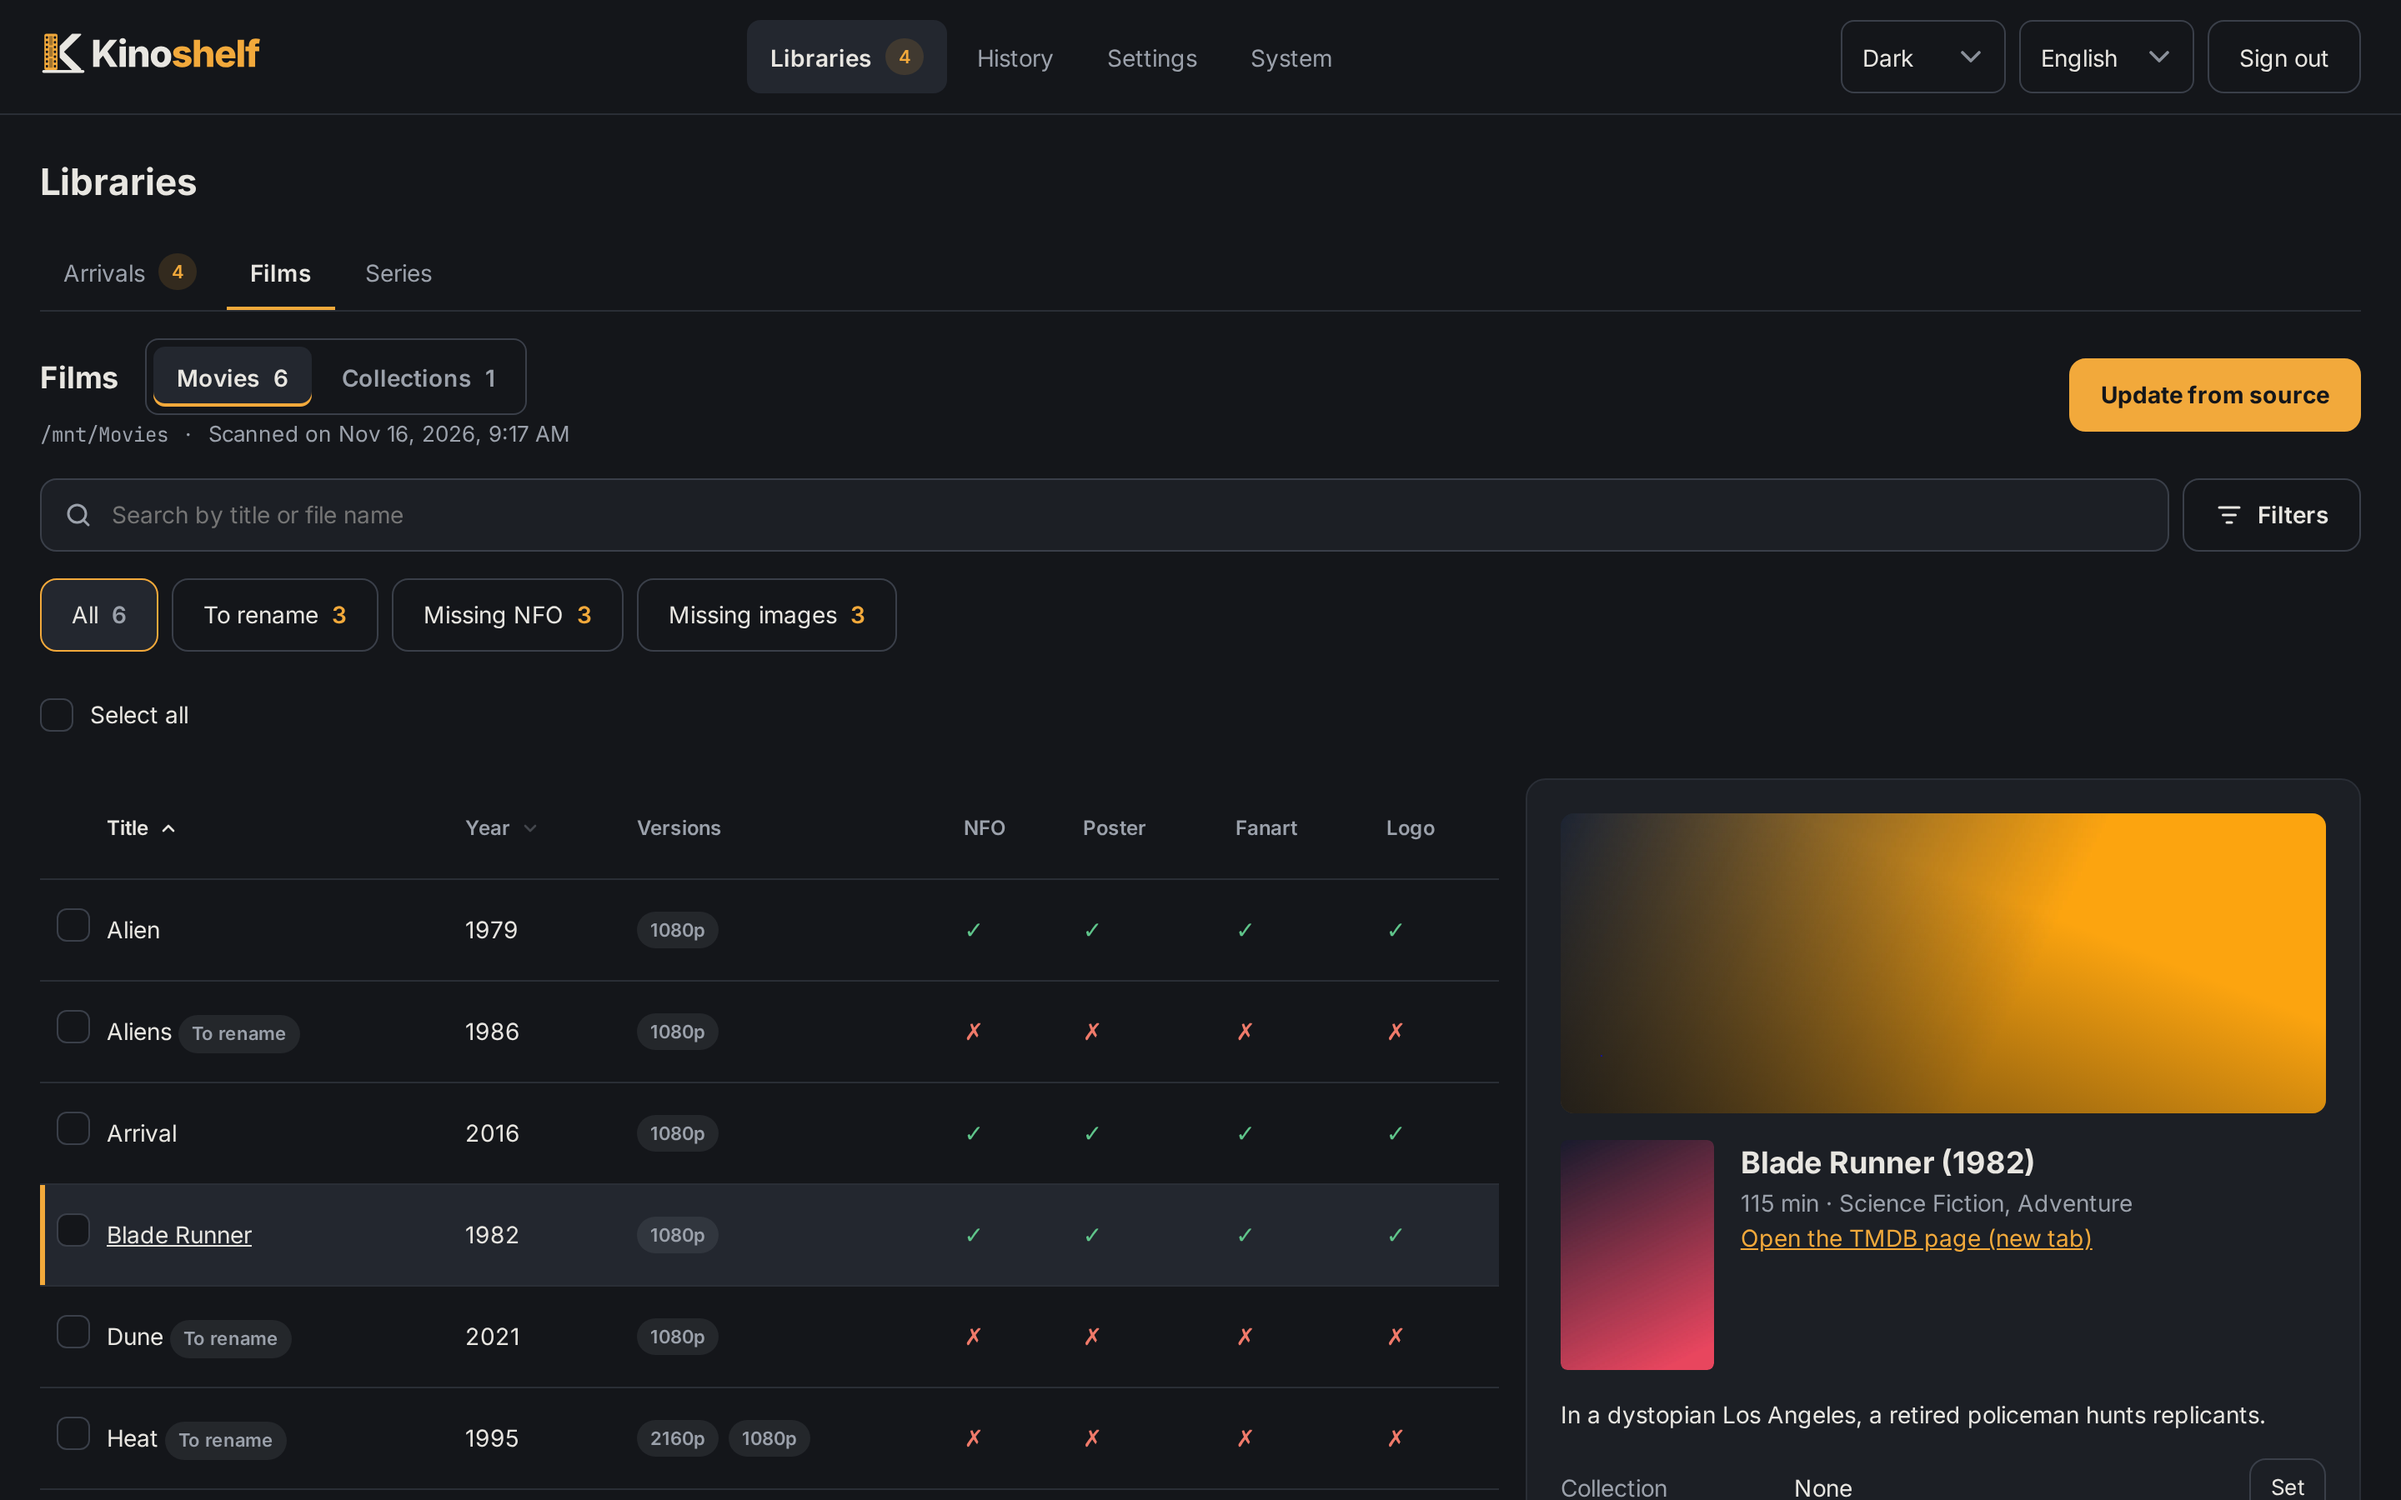
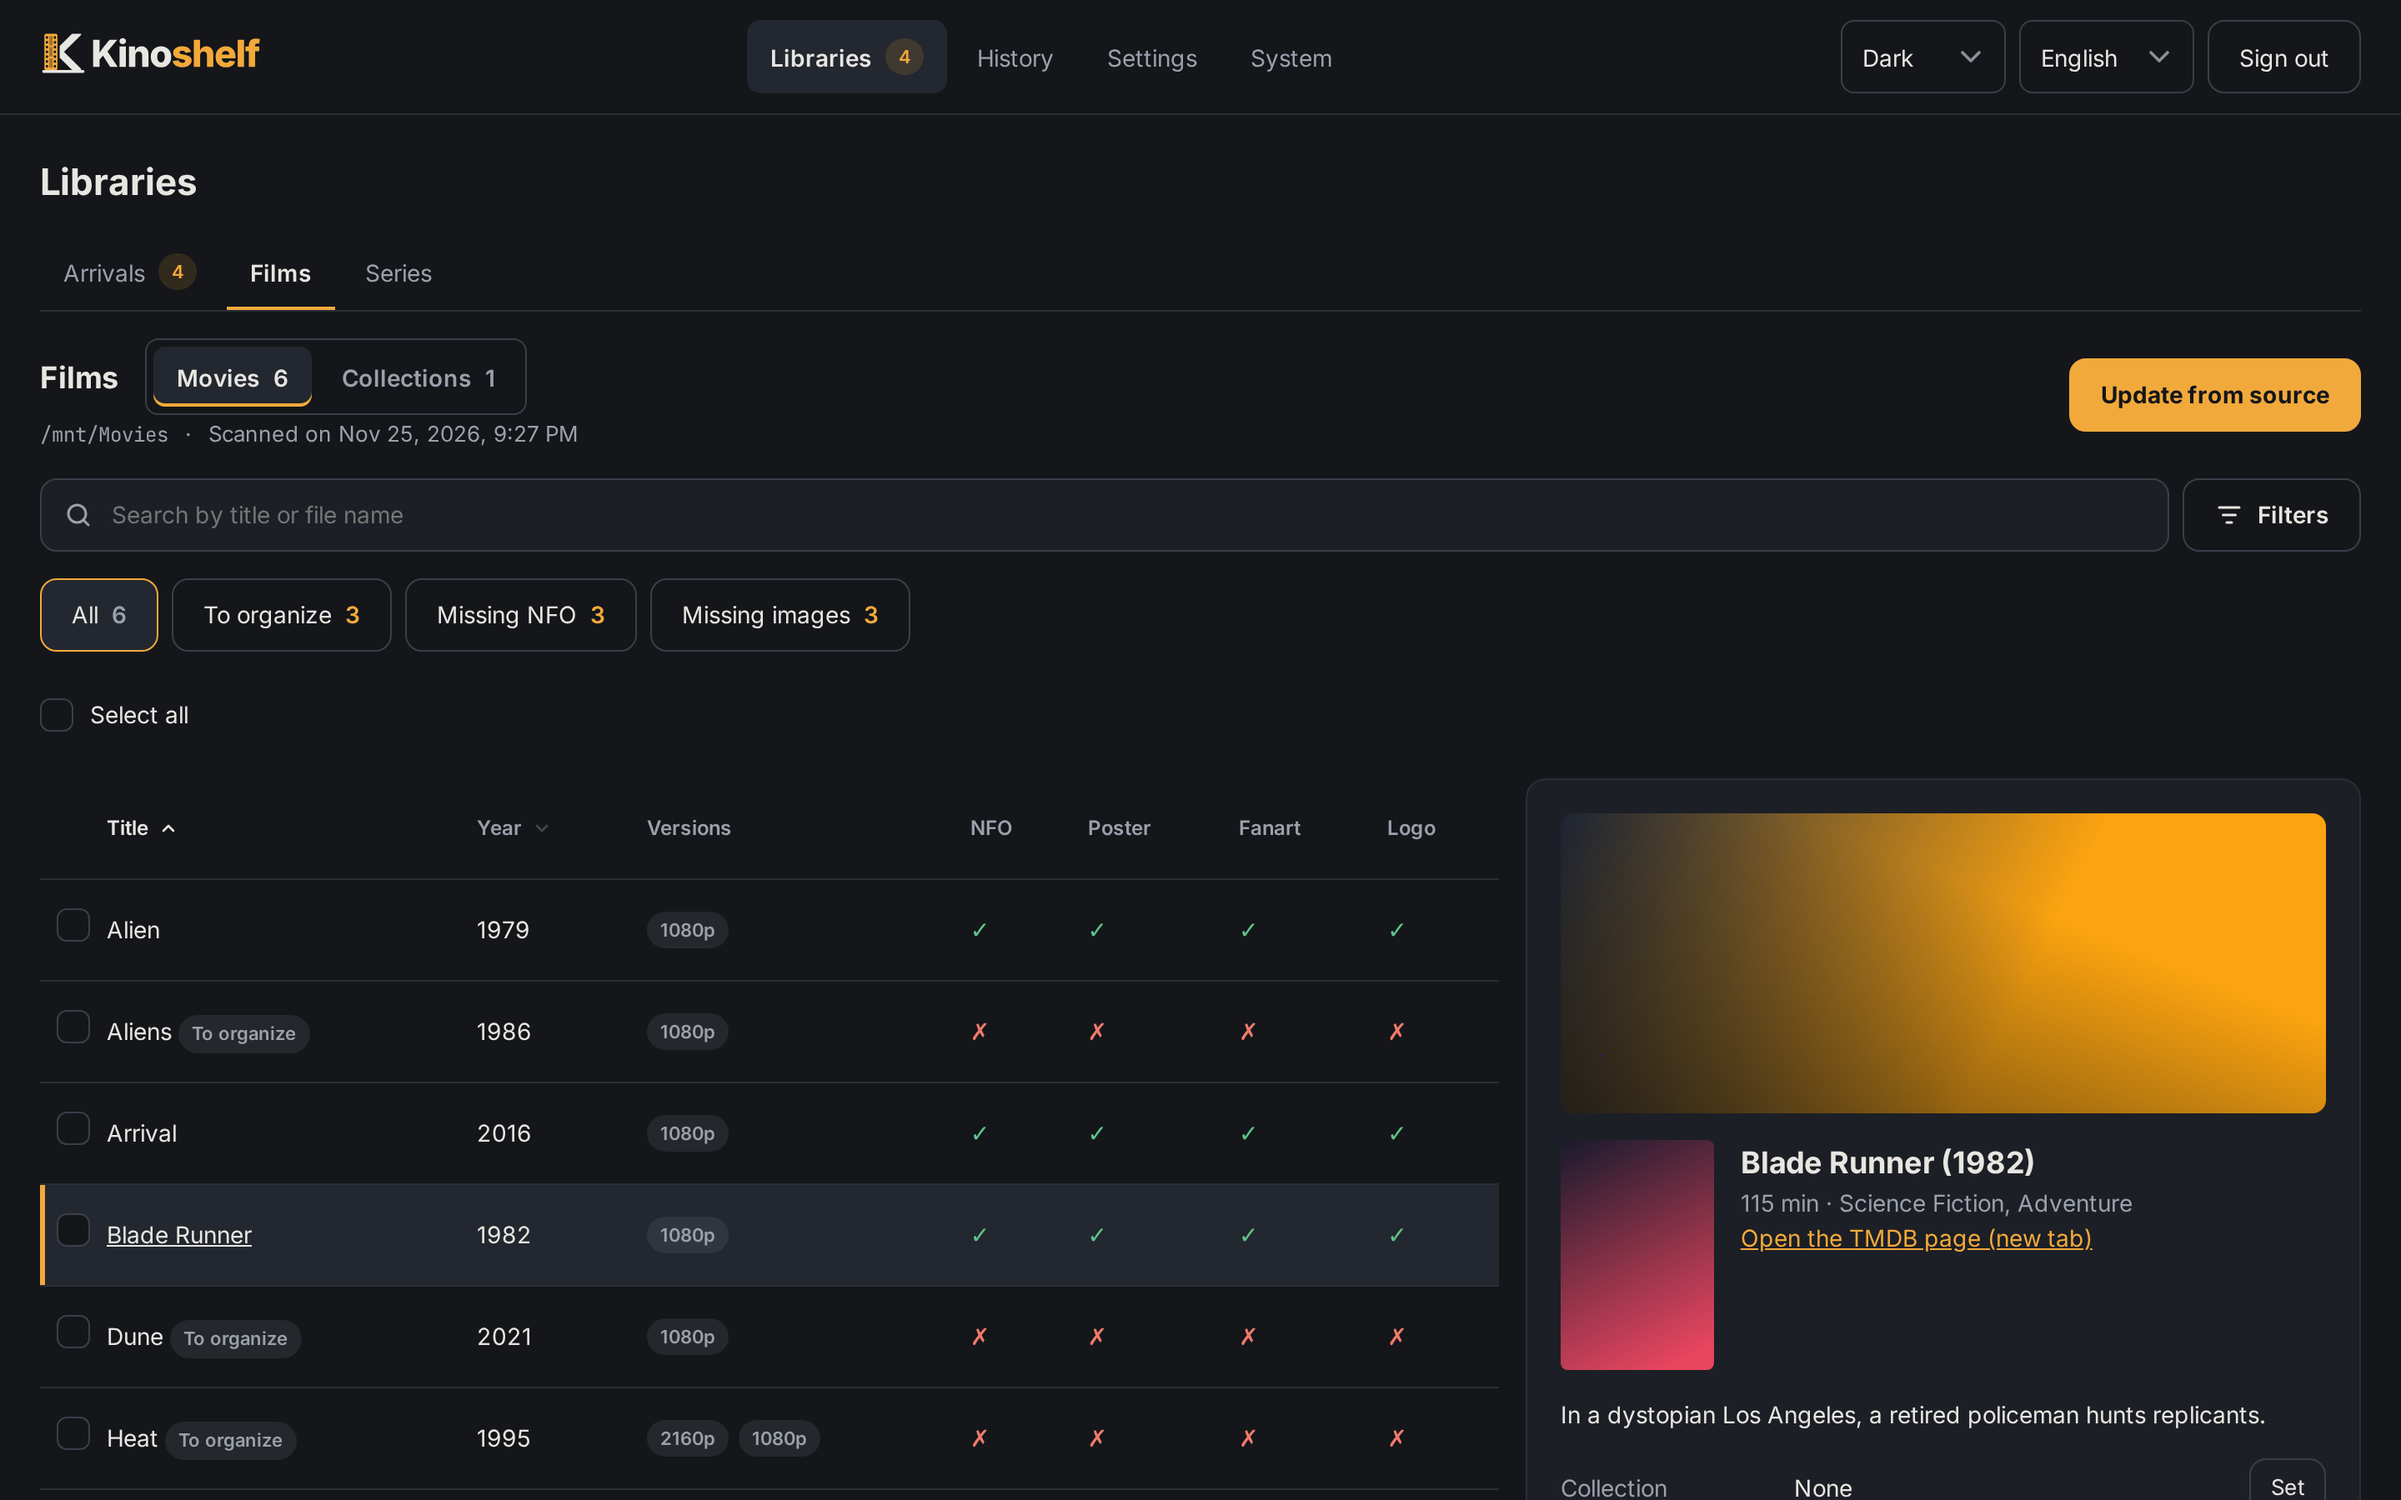
docs: follow the "To organize" filter name, refresh the Libraries shot

diff --git a/docs/2-libraries.md b/docs/2-libraries.md
@@ -40,7 +40,7 @@ show's or a season's) instead of the whole library. It shares the guard of a who
 
 When Kinoshelf picked the wrong work, **Change the match** (on a movie's page and a show's) lets you
 search TMDB and choose the right one. It is a scan of that folder that takes your choice for every
-file. Nothing moves: the rows come back **To rename**, named after the new work, and the usual Rename
+file. Nothing moves: the rows come back **To organize**, named after the new work, and the usual Organize
 (preview, batch, undo) does the rest. NFO and images Kinoshelf wrote for the former work are
 replaced (the old ones are kept in `replaced/`, and undo puts them back), unless someone edited them.
 
@@ -54,7 +54,7 @@ A movie library lists movies; a series library reads as a **tree**: show, season
 - **Search** reads the title and the file name, never the folders.
 - **Filters**, in a panel (a sheet on a phone) and as chips under the search box:
   - **To validate**: files Kinoshelf could not place with confidence;
-  - **To rename**: files that do not follow the profile;
+  - **To organize**: files that do not follow the profile;
   - **Not recognized**: nothing was found for them;
   - **Incomplete**: a video already in place whose NFO or images are missing (**Complete…** writes them);
   - **Missing NFO** and **Missing images** (poster, fanart, logo, and an episode's thumbnail);
@@ -71,7 +71,7 @@ A movie library lists movies; a series library reads as a **tree**: show, season
   resets them.
 - **Organize…**, **Complete…** and **Add the version to the name…** work on the ticked lines (movies in a
   list, shows in the tree): a dry run lists what would move and what would be written, then you
-  confirm. **Organize** renames and moves the files to rename, **Complete** writes the missing NFO and
+  confirm. **Organize** renames and moves the files to organize, **Complete** writes the missing NFO and
   images, and **Add the version to the name** adds the picture size to a file already in its folder.
   A button stays grey when nothing in the selection can use it. Hover a button, or focus it with the
   keyboard, to read what it does (a long press on a phone); Escape closes the tip.
